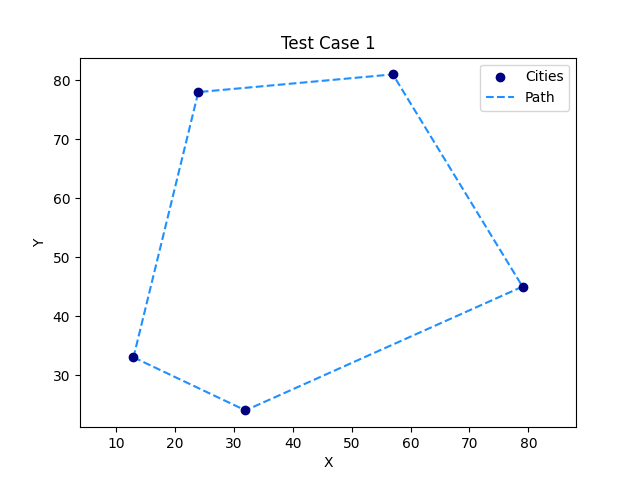
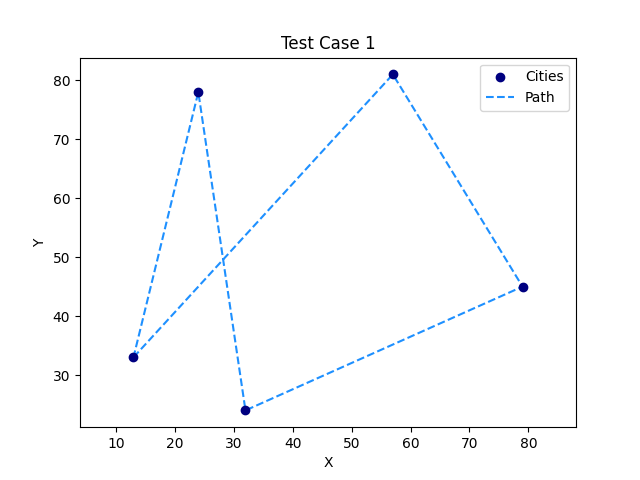
Complete dynamic programming table transition

diff --git a/HW3/dynamic.h b/HW3/dynamic.h
@@ -1,6 +1,7 @@
 #pragma once
 
 #include <iostream>
+#include <bitset>
 #include <algorithm>
 #include <cmath>
 #include "test.h"
@@ -30,10 +31,14 @@ private:
     // solutions
     sol_t curr_sol;
     double curr_dis;
-    vector<bool> visited;
 
     sol_t best_sol;
     double best_dis;
+
+    // variables
+    const double INF = 1e9;
+    vector<int> bits__id;
+    vector<vector<double>> dp_table; 
 
     // iteration
     int total_iter = 0;
@@ -59,32 +64,21 @@ void DynamicProgramming::solve(){
 
     init();
 
-    for(int iter=0; iter<total_iter; iter++){
-
-        startPoint(city_ids[iter]);
-
-        // Update best solution
-        if(curr_dis < best_dis){
-            best_sol = curr_sol;
-            best_dis = curr_dis;
-        }
-
-        // output current progress
-        cout << "Progress: " << iter << " / " << total_iter << "\r";
-
-    }
+    startPoint(0);
+    best_sol = curr_sol;
+    best_dis = curr_dis;
 
 }
 
 void DynamicProgramming::init(){
 
     curr_sol.clear();
-    visited.assign(city_ids.size() + 1, false);
-
     curr_dis = 0.0;
 
     best_sol.clear();
     best_dis = 1e9;
+
+    bits__id.resize(city_ids.size() - 1);
 
     total_iter = city_ids.size();
 
@@ -92,47 +86,63 @@ void DynamicProgramming::init(){
 
 void DynamicProgramming::startPoint(const int& start_id){
 
-    curr_sol.clear();
-    curr_sol.push_back(start_id);
+    // initialize bits_id
+    for(int i=0, j=0; i<city_ids.size(); i++){
 
-    visited.assign(city_ids.size() + 1, false);
-    visited[start_id] = true;
+        if(i == start_id)
+            continue;
+        
+        bits__id[j++] = i;
 
-    int curr_city = start_id;
-    int next_city = -1;
-    double min_city_dis = 1e9, temp_dis = 1e9;
+    }
 
-    curr_dis = 0.0;
+    // Variables
+    int start_city = city_ids[start_id];
+    int total_states = (1 << bits__id.size());
+    dp_table.assign(total_states, vector<double>(city_ids.size(), INF));
 
-    for(int city=1; city<city_ids.size(); city++){
+    // First state initialization
+    for(int visit=0; visit<city_ids.size(); visit++){
 
-        next_city = -1;
-        min_city_dis = 1e9;
+        int visit_city = city_ids[visit];
+        dp_table[0][visit] = calcDis(city_pos[start_city], city_pos[visit_city]);
 
-        for(int id : city_ids){
+    }
 
-            if(visited[id]) continue;
-            
-            temp_dis = calcDis(city_pos[curr_city], city_pos[id]);
+    int visit_city, last_city, last_id, prev_state;
+    double dis;
 
-            if(temp_dis < min_city_dis){
-                min_city_dis = temp_dis;
-                next_city = id;
+    // DP state transition using bottom method
+    for(int state=1; state<total_states; state++){
+
+        for(int visit=0; visit<city_ids.size(); visit++){
+
+            for(int b=0; b<bits__id.size(); b++){
+
+                if((state & (1 << b))){
+
+                    // Get city ids
+                    visit_city = city_ids[visit];
+                    last_id = bits__id[b];
+                    last_city = city_ids[last_id];
+                    
+                    // Update dp table from previous state
+                    prev_state = (state ^ (1 << b));
+                    dis = calcDis(city_pos[last_city], city_pos[visit_city]);
+                    dp_table[state][visit] = min(dp_table[state][visit], dp_table[prev_state][last_id] + dis);
+
+                }
+
             }
 
         }
 
-        // Update current solution
-        visited[next_city] = true;
-        curr_dis += min_city_dis;
-
-        curr_city = next_city;
-        curr_sol.push_back(curr_city);
+        cout << "Progress: " << state << " / " << total_states << "\r";
 
     }
 
-    // Complete the tour by returning to the starting city
-    curr_dis += calcDis(city_pos[curr_city], city_pos[curr_sol[0]]);
+    curr_sol = city_ids;
+    curr_dis = dp_table[total_states-1][start_id];
 
 }
 

diff --git a/HW3/test.h b/HW3/test.h
@@ -105,7 +105,13 @@ bool Test::verifySol(const sol_t& sol, const double best_dis, bool output) const
         }
         
         // Check if the solution reach the optima
-        if(best_dis - ans_dis > EPS){
+        if(best_dis < ans_dis){
+            cout << "\033[91mERROR: distance shorter than answer!\033[m" << endl;
+            cout << "Minimum distance: ";
+            cout << "\033[92m" << ans_dis << "\033[m, Your distance: \033[93m" << best_dis << "\033[m" << endl;
+            return false;
+        }
+        else if(best_dis - ans_dis > EPS){
             cout << "\033[91mUnable to reach minimum distance!\033[m" << endl;
             cout << "Minimum distance: ";
             cout << "\033[92m" << ans_dis << "\033[m, Your distance: \033[93m" << best_dis << "\033[m" << endl;

diff --git a/HW3/plot.py b/HW3/plot.py
@@ -55,8 +55,14 @@ def plot_path(name: str, paths: list[tuple[float, float]], out_path: str):
 if __name__ == "__main__":
 
     args = parser.parse_args()
+    print(f"[{args.name}] Plotting...", end='\r')
         
     paths = read_points(args.data, f"ans/{args.file}.txt")
+
+    if len(paths) == 0:
+        print(f"[{args.name}] No paths found in ans/{args.file}.txt")
+        exit(-1)
+    
     plot_path(args.name, paths, f"images/{args.file}.png")
 
     print(f"[{args.name}] Plot saved to images/{args.file}.png")
